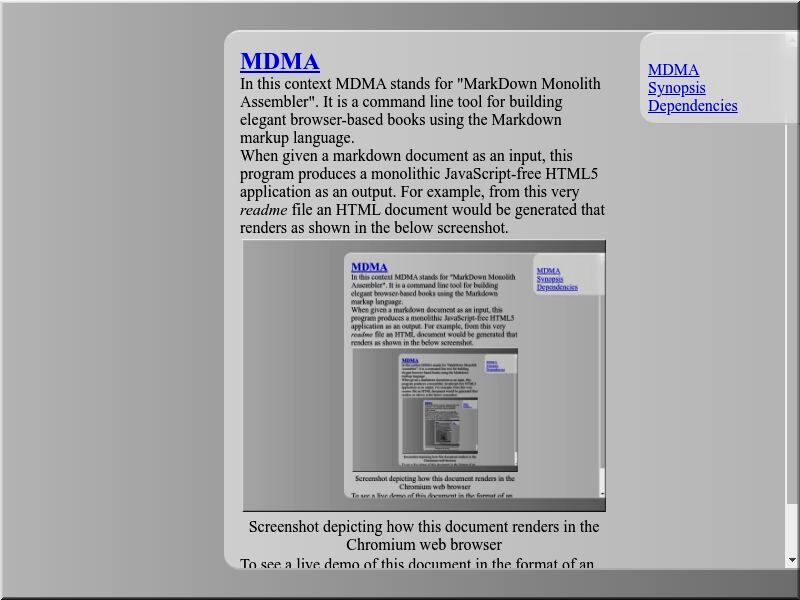
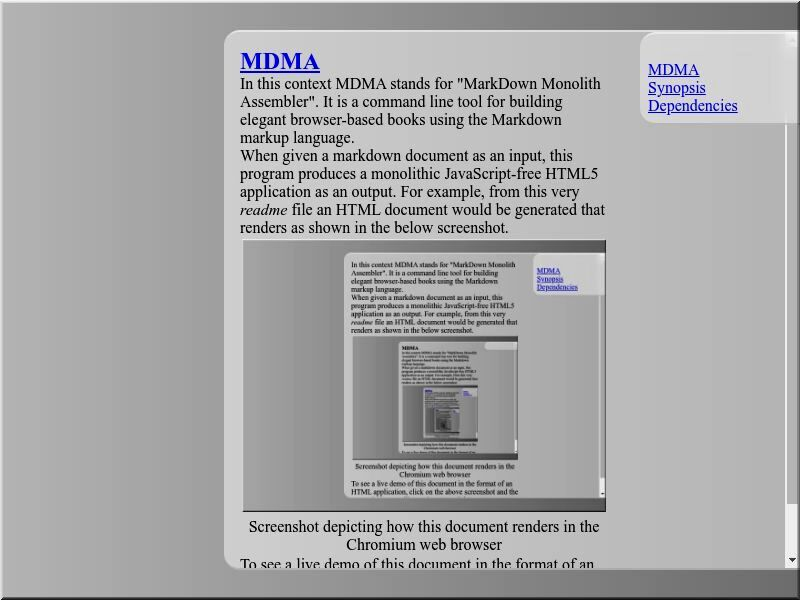
Headings are now placed inside headings not vice versa.

Changed region(s): [[0.4375, 0.42, 0.6562, 0.84], [0.75, 0.78, 0.7812, 0.81]]

diff --git a/framework.html b/framework.html
@@ -233,10 +233,9 @@
           <div>
             <div id="MDMA-CONTENT">
               <article class="tab">
-                <a id="anchor-1" href="#anchor-1">
                 <h1>
-                  MDMA
-                </h1></a>
+                  <a id="anchor-1" href="#anchor-1">MDMA</a>
+                </h1>
                 <p>
                   In this context MDMA stands for "MarkDown
                   Monolith Assembler". It is a command line tool
@@ -281,10 +280,9 @@
                 </p>
               </article>
               <article class="tab">
-                <a id="anchor-2" href="#anchor-2">
                 <h1>
-                  Synopsis
-                </h1></a>
+                  <a id="anchor-2" href="#anchor-2">Synopsis</a>
+                </h1>
                 <pre><code>Usage: mdma [OPTION]... [FILE]
 Options:
   -f  --framework     Specify a custom HTML framework file.
@@ -302,10 +300,10 @@ Options:
                 </p>
               </article>
               <article class="tab">
-                <a id="anchor-3" href="#anchor-3">
                 <h1>
-                  Dependencies
-                </h1></a>
+                  <a id="anchor-3" href=
+                  "#anchor-3">Dependencies</a>
+                </h1>
                 <p>
                   In order to compile this program from its
                   <em>Makefile</em> the following libraries and

diff --git a/src/main.cpp b/src/main.cpp
@@ -175,7 +175,6 @@ bool parse_markdown(
     const tinyxml2::XMLElement *sibling = first_heading;
 
     for (; sibling; sibling = sibling->NextSiblingElement()) {
-        tinyxml2::XMLElement *root = nullptr;
         const char *name = sibling->Name();
 
         if (!name) {
@@ -183,72 +182,87 @@ bool parse_markdown(
         }
 
         bool new_tab = !strcasecmp("h1", name);
+        bool new_anchor{
+            new_tab
+            || !strcasecmp("h2", name)
+            || !strcasecmp("h3", name)
+            || !strcasecmp("h4", name)
+            || !strcasecmp("h5", name)
+            || !strcasecmp("h6", name)
+        };
 
-        if (new_tab
-        ||  !strcasecmp("h2", name)
-        ||  !strcasecmp("h3", name)
-        ||  !strcasecmp("h4", name)
-        ||  !strcasecmp("h5", name)
-        ||  !strcasecmp("h6", name)) {
+        if (new_tab) {
             tinyxml2::XMLNode *node = nullptr;
             tinyxml2::XMLElement *elem = nullptr;
 
-            if (new_tab) {
-                sections.emplace_back();
+            sections.emplace_back();
 
-                node = sections.back().InsertFirstChild(
-                    sections.back().NewElement("article")
-                );
+            node = sections.back().InsertFirstChild(
+                sections.back().NewElement("article")
+            );
 
-                elem = node ? node->ToElement() : nullptr;
-
-                if (elem) {
-                    elem->SetAttribute("class", "tab");
-                }
-            }
-            else {
-                elem = sections.back().RootElement();
-            }
+            elem = node ? node->ToElement() : nullptr;
 
             if (elem) {
-                node = elem->InsertEndChild(
-                    sections.back().NewElement("a")
-                );
-
-                elem = node ? node->ToElement() : nullptr;
-
-                if (elem) {
-                    int id = callback(*sibling);
-
-                    if (id > 0) {
-                        std::string anchor_id(
-                            std::string("anchor-").append(std::to_string(id))
-                        );
-
-                        elem->SetAttribute("id", anchor_id.c_str());
-                        elem->SetAttribute(
-                            "href", std::string("#").append(anchor_id).c_str()
-                        );
-
-                        root = elem;
-                    }
-                    else raise(SIGSEGV);
-                }
-                else raise(SIGSEGV);
+                elem->SetAttribute("class", "tab");
             }
-            else raise(SIGSEGV);
         }
 
         if (sections.empty()) continue;
 
-        if (!root) {
-            root = sections.back().RootElement();
+        tinyxml2::XMLElement *root = sections.back().RootElement();
+
+        tinyxml2::XMLNode *node = (
+            new_anchor ? (
+                sibling->ShallowClone(&sections.back())
+            ) : sibling->DeepClone(&sections.back())
+        );
+
+        tinyxml2::XMLElement *elem = node ? node->ToElement() : nullptr;
+
+        if (!elem) {
+            raise(SIGSEGV);
         }
 
-        tinyxml2::XMLNode *node = sibling->DeepClone(&sections.back());
+        root->InsertEndChild(elem);
 
-        if (node) {
-            root->InsertEndChild(node);
+        if (!new_anchor) {
+            continue;
+        }
+
+        node = elem->InsertEndChild(sections.back().NewElement("a"));
+
+        elem = node ? node->ToElement() : nullptr;
+
+        if (!elem) {
+            raise(SIGSEGV);
+        }
+
+        int id = callback(*sibling);
+
+        if (id <= 0) {
+            raise(SIGSEGV);
+        }
+
+        std::string anchor_id(
+            std::string("anchor-").append(std::to_string(id))
+        );
+
+        elem->SetAttribute("id", anchor_id.c_str());
+        elem->SetAttribute(
+            "href", std::string("#").append(anchor_id).c_str()
+        );
+
+        const tinyxml2::XMLNode *child = sibling->FirstChild();
+
+        for (; child; child = child->NextSibling()) {
+            tinyxml2::XMLNode *n = child->DeepClone(&sections.back());
+
+            if (!n) {
+                raise(SIGSEGV);
+            }
+
+            elem->InsertEndChild(n);
         }
     }
 
